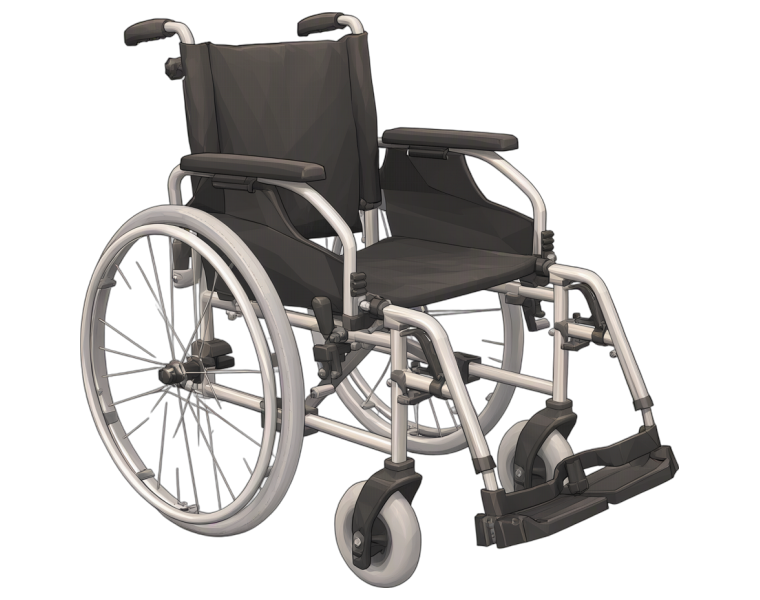
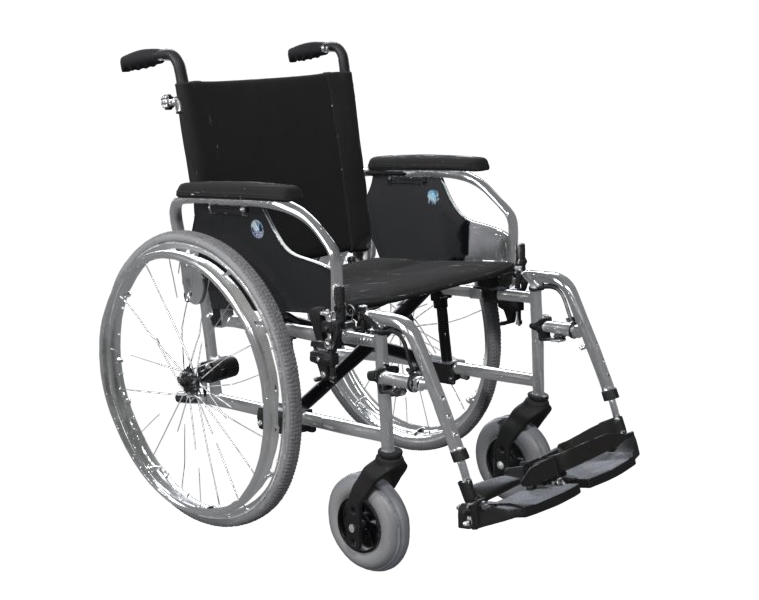
Баба Яга (Vermeiren D100) и Ольга (Panthera X3): модели Meshy вместо Tripo, кадры с оригинальных GLB; add_hub для мотор-ступиц

diff --git a/art_tests/tripo_label.py b/art_tests/tripo_label.py
@@ -215,6 +215,27 @@ SPECS = {
                ("motor", (-480, 300), (120, 310), (150, 235)),
                ("footrest", (380, 700), (150, 260), (0, INF)),
                ("seat", (-320, 230), (560, 760), (0, 300))]),
+    # Баба Яга — Vermeiren D100, Meshy (meshy_models/vermeiren_d100.glb), height=940: складная стальная, тормоз —
+    # у переднего края заднего колеса, ручки толкания сзади
+    "d100": dict(art="chair_yaga", spokes=36, wheels=[
+        dict(c=(-215, 300), R=290, z=(270, 350), kind="spoked"),
+        dict(c=(182, 95), R=90, z=(180, 265), kind="caster")],
+        boxes=[("caster_stem", (150, 262), (150, 290), (180, 265)),
+               ("brake", (85, 190), (360, 515), (185, 295)),
+               ("footrest", (330, 560), (100, 320), (0, INF)),
+               ("armrest", (-310, 55), (655, 730), (160, 310)),
+               ("backrest", (-500, -200), (430, 960), (0, 270)),
+               ("seat", (-260, 180), (415, 535), (0, 235))]),
+    # Русалка Ольга — Panthera X3, Meshy (meshy_models/panthera_x3.glb), height=800: ультралёгкая активная, колёса 24",
+    # тормоз — на раме у верхнего переднего края колеса, подножка — трубка-петля
+    "x3": dict(art="chair_rusalka", spokes=24, wheels=[
+        dict(c=(-124, 314), R=306, z=(235, 305), kind="spoked"),
+        dict(c=(268, 55), R=48, z=(190, 255), kind="caster")],
+        boxes=[("caster_stem", (230, 360), (100, 245), (175, 255)),
+               ("brake", (130, 220), (415, 515), (165, 265)),
+               ("footrest", (305, 460), (60, 250), (0, 200)),
+               ("backrest", (-400, -200), (430, 800), (0, 240)),
+               ("seat", (-230, 280), (415, 525), (0, 215))]),
     # Змей Горыныч — Pride Jazzy 614 (среднеприводная)
     "raiju": dict(art="chair_gorynych", wheels=[
         dict(c=(20, 160), R=160, z=(215, 310), kind="power"),

diff --git a/art_tests/blender_render.py b/art_tests/blender_render.py
@@ -106,11 +106,32 @@ def move_parts(moves):
         o.data.update()
 
 
+def add_hub(h):
+    """Мотор-ступица (Alber e-motion), которой нет в модели Meshy: тёмный корпус и светлая крышка.
+    h: c — центр (x, y, z, мм игры), r — радиус, w — толщина, мм."""
+    x, y, z = h["c"]
+    for r, w, col, met in ((h["r"], h["w"], (0.03, 0.03, 0.035, 1), 0.35),
+                           (h["r"] * 0.45, h["w"] + 6, (0.6, 0.61, 0.65, 1), 0.85)):
+        bpy.ops.mesh.primitive_cylinder_add(vertices=64, radius=r / 1000, depth=w / 1000,
+                                            location=(x / 1000, -z / 1000, y / 1000), rotation=(math.pi / 2, 0, 0))
+        ob = bpy.context.active_object
+        m = bpy.data.materials.new("hub")
+        m.use_nodes = True
+        b = m.node_tree.nodes["Principled BSDF"]
+        b.inputs["Base Color"].default_value = col
+        b.inputs["Metallic"].default_value = met
+        b.inputs["Roughness"].default_value = 0.35
+        ob.data.materials.append(m)
+        bpy.ops.object.shade_smooth_by_angle(angle=math.radians(35))
+
+
 # ---------- модель ----------
 if d.get("glb"):
     import_glb(d["glb"], d["glb_matrix"], d.get("recolor"))
     if d.get("move"):
         move_parts(d["move"])
+    for h in d.get("hubs") or []:
+        add_hub(h)
 V = np.asarray(d["verts"], dtype=np.float64)
 VB = np.c_[V[:, 0], -V[:, 2], V[:, 1]] / 1000.0          # мм -> м, оси Blender
 tris, fcol, fmet, fpart = [], [], [], []

diff --git a/art_tests/blender_frames.py b/art_tests/blender_frames.py
@@ -25,6 +25,7 @@ GLB = {"chair_m3.png": dict(key="m3", recolor=[0, 275, 28]),            # кра
        "chair_f5.png": dict(key="f5m", recolor=[175, -1, 30]),           # бирюзовый -> графит
        "chair_trident.png": dict(key="trident"), "chair_pulse6.png": dict(key="pulse6"),
        "chair_gorynych.png": dict(key="jazzy"), "chair_whillc2.png": dict(key="whill"),
+       "chair_yaga.png": dict(key="d100"), "chair_rusalka.png": dict(key="x3"),
        "chair_focuscr.png": dict(key="fcr"),
        "chair_leshy.png": dict(key="x8", recolor=[28, 4, 26])}           # оранжевый -> красный                               # цвета Meshy (тёмно-синяя рама, как на фото)
 total = 0
@@ -37,7 +38,7 @@ for art in arts:
     if art in GLB:
         spec = json.load(open(src, encoding="utf-8"))
         xf = json.load(open(os.path.join(HERE, "gen3d", GLB[art]["key"] + "_xform.json"), encoding="utf-8"))
-        spec.update(glb=xf["src"], glb_matrix=xf["matrix"], recolor=GLB[art].get("recolor"))
+        spec.update(glb=xf["src"], glb_matrix=xf["matrix"], recolor=GLB[art].get("recolor"), hubs=GLB[art].get("hubs"))
         json.dump(spec, open(src, "w"), separators=(",", ":"))
     out = os.path.join(ROUT, name)
     for f in glob.glob(os.path.join(out, "*.png")):

diff --git a/art_tests/portrait_chair.py b/art_tests/portrait_chair.py
@@ -17,7 +17,8 @@ spec = json.load(open(src, encoding="utf-8"))
 sys.path.insert(0, HERE)
 GLB = {"chair_m3.png": dict(key="m3", recolor=[0, 275, 28]), "chair_edge4.png": dict(key="edge4", recolor=[228, 2, 32]),
        "chair_f5.png": dict(key="f5m", recolor=[175, -1, 30]), "chair_trident.png": dict(key="trident"),
-       "chair_pulse6.png": dict(key="pulse6"), "chair_gorynych.png": dict(key="jazzy"),
+       "chair_pulse6.png": dict(key="pulse6"), "chair_gorynych.png": dict(key="jazzy"), "chair_yaga.png": dict(key="d100"),
+       "chair_rusalka.png": dict(key="x3"),
        "chair_whillc2.png": dict(key="whill"), "chair_focuscr.png": dict(key="fcr"),
        "chair_leshy.png": dict(key="x8", recolor=[28, 4, 26])}
 # подгонка коляски под персонажа (только для портрета): сдвиг части модели, мм игры (blender_render.move_parts)

diff --git a/AGENTS.md b/AGENTS.md
@@ -322,6 +322,18 @@ python i18n_work/build_lang.py       # перевод полон
 ## Журнал изменений
 Формат: `ГГГГ-ММ-ДД — агент/модель — что сделано (файлы)`. Новые записи — **сверху**.
 
+- 2026-10-23 — Claude (Opus 5.5) — **Баба Яга (Vermeiren D100) и Ольга (Panthera X3) — модели Meshy** владельца вместо
+  Tripo (`meshy_models/vermeiren_d100.glb`, height=940, ключ `d100`; `meshy_models/panthera_x3.glb`, height=800, ключ
+  `x3`). SPECS в tripo_label: D100 — тормоз у переднего края заднего колеса (x 85–190, y 360–515), X3 — тормоз на раме
+  у верха колеса (x 130–220, y 415–515), подножка-петля. Модели — art_tests/tripo/models/chair_{yaga,rusalka}_ai*.json
+  (в игру — только кадры, index_folk.json), прежние Tripo — art_tests/tripo/bak_before_meshy/chair_*_tripo*. Кадры —
+  `blender_frames.py chair_yaga.png` / `chair_rusalka.png` с оригинальных GLB, рисунки — `art_from_turntable.py
+  yaga_d100` / `olga_x3`. `blender_render.add_hub` — мотор-ступица поверх модели (`GLB[...]["hubs"]`, для Сенеба:
+  Alber e-motion, которого нет в чистой модели Nitrum). Строка Tripo в титрах/README/LICENSE — пока прежняя: владелец
+  делает третью коляску (Сенеб), тогда Tripo убрать целиком. Портреты Яги и Ольги — ещё в старых колясках.
+  (art_tests/tripo_label.py, blender_frames.py, blender_render.py, portrait_chair.py, assets/chair_yaga.png,
+  assets/chair_rusalka.png, assets/turntable/*, meshy_models/README.md)
+
 - 2026-10-23 — Claude (Opus 5.5) — **аудит, часть 2: крупный текст 125 % (в браузере по умолчанию), Кабинет посадки,
   отзывы 84–88.** Итог задания — карточка «что ты узнал» ниже «спасибо» в 3 строки; окно спецификации — варианты
   ниже вопроса в 2 строки (`_spec_prompt_bottom`); вступление — окно по самому длинному слайду; пузырь Барти —

diff --git a/meshy_models/README.md b/meshy_models/README.md
@@ -14,6 +14,8 @@
 | `whill_model_c2.glb` | WHILL Model C2/Ci | «Код ошибки» (`whill_code`), `chair_whillc2.png` | 2026-10-22 |
 | `ki_mobility_focus_cr.glb` | Ki Mobility Focus CR | бабушка Агата (`focuscr_cable`), `chair_focuscr.png`; в игре наклон 20° | 2026-10-22 |
 | `magic_mobility_x8.glb` | Magic Mobility Extreme X8 | Леший (`leshy_x8`), `chair_leshy.png` (корпус перекрашен в красный) | 2026-10-22 |
+| `vermeiren_d100.glb` | Vermeiren D100 | Баба Яга (`yaga_d100`), `chair_yaga.png` | 2026-10-23 |
+| `panthera_x3.glb` | Panthera X3 | русалка Ольга (`olga_x3`), `chair_rusalka.png` | 2026-10-23 |
 
 Как модель попадает в игру:
 1. `art_tests/tripo_convert.py meshy_models/<файл>.glb art_tests/gen3d/<ключ> height=<мм> --keep-big=0.002`
